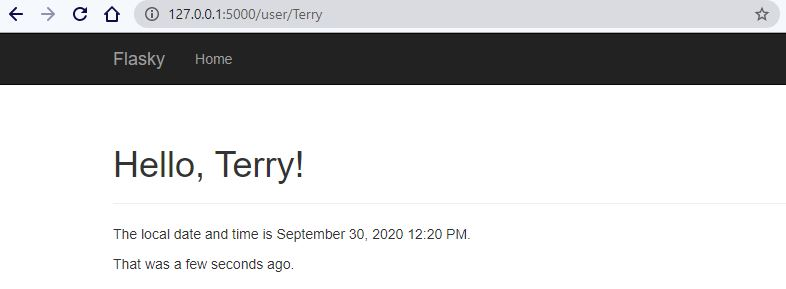
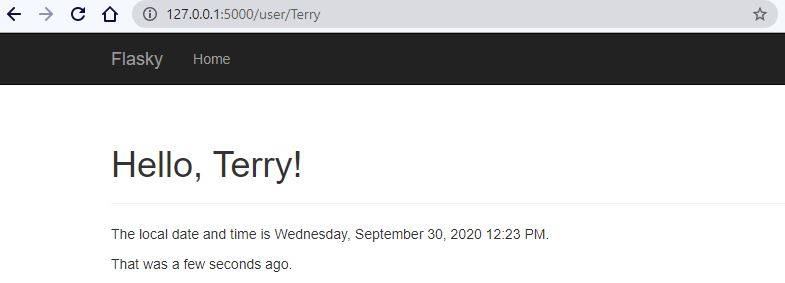
done activity 1

diff --git a/templates/user.html b/templates/user.html
@@ -6,6 +6,6 @@
 <div class="page-header">
     <h1>Hello, {{ name }}!</h1>
 </div>
-<p>The local date and time is {{ moment(current_time).format('LLL') }}.</p>
+<p>The local date and time is {{ moment(current_time).format('LLLL') }}.</p>
 <p>That was {{ moment(current_time).fromNow(refresh=True) }}.</p>
 {% endblock %}
